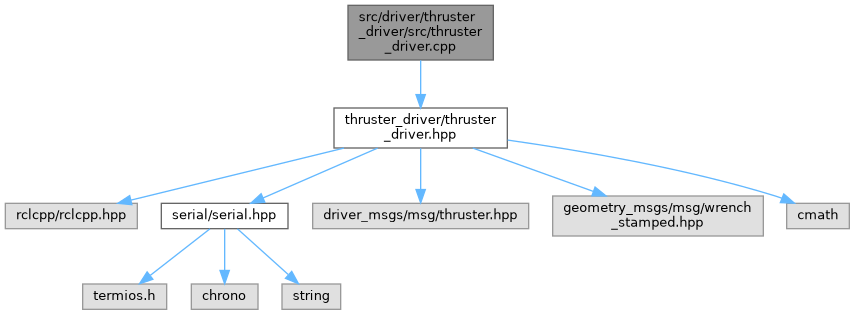
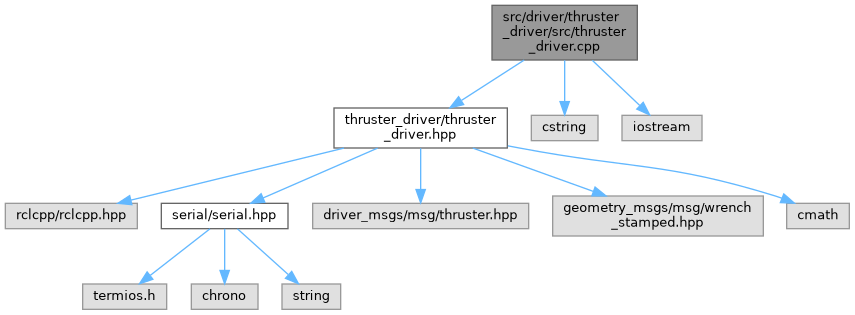
Deploying to gh-pages from @ KyutechUnderWater/kyubic_ros@8247c6815e9335d95163265e6388ebbd53f26e8e 🚀

diff --git a/thruster__driver_8hpp_source.html b/thruster__driver_8hpp_source.html
@@ -121,7 +121,7 @@ $(function() {
 <div class="line"><a id="l00062" name="l00062"></a><span class="lineno">   62</span> </div>
 <div class="line"><a id="l00063" name="l00063"></a><span class="lineno">   63</span>}  <span class="comment">// namespace thruster_driver</span></div>
 <div class="ttc" id="aclassthruster__driver_1_1ThrusterDriver_html"><div class="ttname"><a href="classthruster__driver_1_1ThrusterDriver.html">thruster_driver::ThrusterDriver</a></div><div class="ttdoc">Thruster class.</div><div class="ttdef"><b>Definition:</b> thruster_driver.hpp:36</div></div>
-<div class="ttc" id="aclassthruster__driver_1_1ThrusterDriver_html_a4eaf0c67ea919ef3c03623080eb9382b"><div class="ttname"><a href="classthruster__driver_1_1ThrusterDriver.html#a4eaf0c67ea919ef3c03623080eb9382b">thruster_driver::ThrusterDriver::ThrusterDriver</a></div><div class="ttdeci">ThrusterDriver()</div><div class="ttdoc">Serial and ROS-topic setting.</div><div class="ttdef"><b>Definition:</b> thruster_driver.cpp:15</div></div>
+<div class="ttc" id="aclassthruster__driver_1_1ThrusterDriver_html_a4eaf0c67ea919ef3c03623080eb9382b"><div class="ttname"><a href="classthruster__driver_1_1ThrusterDriver.html#a4eaf0c67ea919ef3c03623080eb9382b">thruster_driver::ThrusterDriver::ThrusterDriver</a></div><div class="ttdeci">ThrusterDriver()</div><div class="ttdoc">Serial and ROS-topic setting.</div><div class="ttdef"><b>Definition:</b> thruster_driver.cpp:18</div></div>
 <div class="ttc" id="anamespacethruster__driver_html"><div class="ttname"><a href="namespacethruster__driver.html">thruster_driver</a></div><div class="ttdoc">For thruster driver.</div></div>
 <div class="ttc" id="anamespacethruster__driver_html_a638b0226ee3770d3d42b64506a6b4a29"><div class="ttname"><a href="namespacethruster__driver.html#a638b0226ee3770d3d42b64506a6b4a29">thruster_driver::theta_h</a></div><div class="ttdeci">constexpr uint theta_h</div><div class="ttdef"><b>Definition:</b> thruster_driver.hpp:26</div></div>
 <div class="ttc" id="anamespacethruster__driver_html_ad996a462479e639f02185841a7020d4b"><div class="ttname"><a href="namespacethruster__driver.html#ad996a462479e639f02185841a7020d4b">thruster_driver::sin_h</a></div><div class="ttdeci">const float sin_h</div><div class="ttdef"><b>Definition:</b> thruster_driver.hpp:28</div></div>

diff --git a/thruster__driver_8cpp.html b/thruster__driver_8cpp.html
@@ -84,13 +84,17 @@ $(function() {
 <p>thruster driver  
 <a href="#details">More...</a></p>
 <div class="textblock"><code>#include &quot;<a class="el" href="thruster__driver_8hpp_source.html">thruster_driver/thruster_driver.hpp</a>&quot;</code><br />
+<code>#include &lt;cstring&gt;</code><br />
+<code>#include &lt;iostream&gt;</code><br />
 </div><div class="textblock"><div class="dynheader">
 Include dependency graph for thruster_driver.cpp:</div>
 <div class="dyncontent">
 <div class="center"><img src="thruster__driver_8cpp__incl.png" border="0" usemap="#asrc_2driver_2thruster__driver_2src_2thruster__driver_8cpp" alt=""/></div>
 <map name="asrc_2driver_2thruster__driver_2src_2thruster__driver_8cpp" id="asrc_2driver_2thruster__driver_2src_2thruster__driver_8cpp">
-<area shape="rect" title="thruster driver" alt="" coords="348,5,493,60"/>
+<area shape="rect" title="thruster driver" alt="" coords="492,5,637,60"/>
 <area shape="rect" href="thruster__driver_8hpp.html" title="thruster driver" alt="" coords="334,108,507,148"/>
+<area shape="rect" title=" " alt="" coords="531,115,598,141"/>
+<area shape="rect" title=" " alt="" coords="622,115,702,141"/>
 <area shape="rect" title=" " alt="" coords="5,203,137,229"/>
 <area shape="rect" href="serial_8hpp.html" title="serial library" alt="" coords="161,203,288,229"/>
 <area shape="rect" title=" " alt="" coords="313,203,529,229"/>
